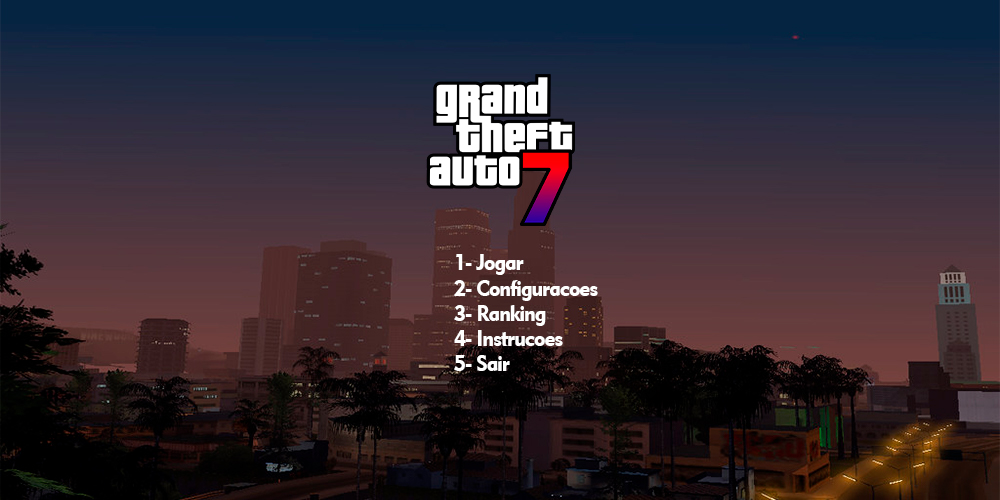
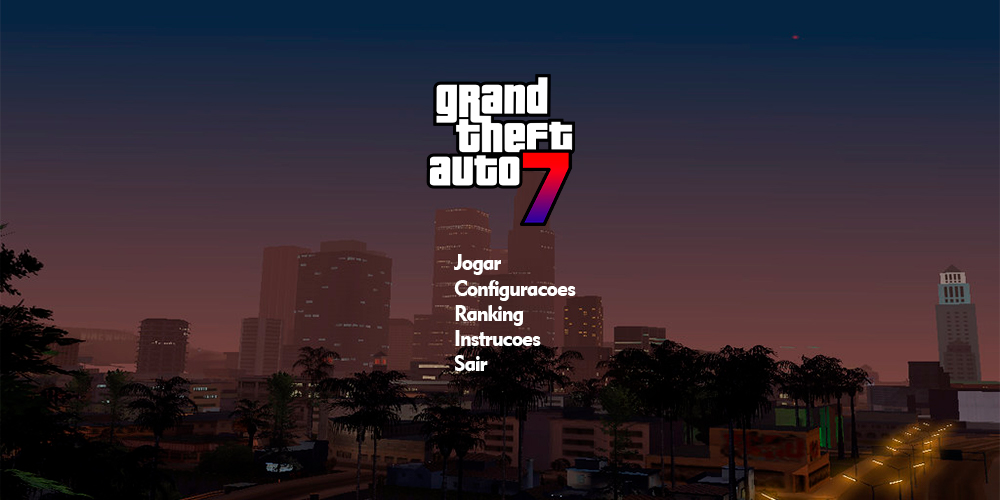
implementação do novo menu principal do game

Changed region(s): [[0.434, 0.51, 0.62, 0.75]]

diff --git a/Codes/menu.py b/Codes/menu.py
@@ -12,79 +12,21 @@ def escrever(string, tela, fonte, cor, x, y, tamanho):
     tela.blit(texto, (x, y))
     pygame.display.flip()
 
-def menu(tela, tam, largura, altura, fonte):
-    """"
-    Função que apresenta o menu inicial na tela
-    """
-    nome_do_jogo = 'GTA VII'
-    vermelho = (255, 0, 0)
-    branco = (255, 255, 255)
-    preto = (0, 0, 0)
-    tela.fill(preto)
-    
-    escrever(nome_do_jogo, tela, fonte, vermelho, 160, 40, tam * 10)
 
-    string = "1- Jogar"
-    escrever(string, tela, fonte, branco, (largura // 2),((altura // 4) - 40), tam * 3)   
+def posicionar_seta(seletor, screen):
 
-    string = "2- Configurações(Ainda não implementado!)" 
-    escrever(string, tela, fonte, branco, (largura // 2),((altura // 4) - 20), tam * 3)  
+    seta = pygame.image.load(".\imagens-de-fundo\-seta.png")
+    match seletor:
+        case 1:
+            screen.blit(seta, (425, 255))
+        case 2:
+            screen.blit(seta, (425, 282))
+        case 3:
+            screen.blit(seta, (425, 307))
+        case 4:
+            screen.blit(seta, (425, 332))
+        case 5:
+            screen.blit(seta, (425, 357))
 
-    string = "3- Ranking(Ainda não implementado!)" 
-    escrever(string, tela, fonte, branco, (largura // 2),((altura // 4)), tam * 3) 
 
-    string = "4- Instruções" 
-    escrever(string, tela, fonte, branco, (largura // 2),((altura // 4) + 20), tam * 3)
 
-    string = "5- Sair" 
-    escrever(string, tela, fonte, branco, (largura // 2),((altura // 4) + 40), tam * 3)  
-    
-    pygame.display.flip()
-
-def mostrar_instrucoes(h, l, corI, corII, tam, fonte): 
-    """
-    Função que apresenta a tela de instruções.
-    """   
-    screen = pygame.display.set_mode((l, h))
-    screen.fill(corI)
-
-    string = 'Para se movimentar para cima ou para baixo' 
-    escrever(string, screen, fonte, corII, (h // 8), (l // 8)+20, tam * 3)
-    
-    string = 'e desviar dos inimigos, utilize as setas;'
-    escrever(string, screen, fonte, corII, (h // 8), (l // 8)+40, tam * 3)
-
-    string = 'Para atirar em seus inimigos e não ser'
-    escrever(string, screen, fonte, corII, (h // 8), (l // 8)+60, tam * 3)
-
-    string = 'atacado, aperte espaço;'
-    escrever(string, screen, fonte, corII, (h // 8), (l // 8)+80, tam * 3)
-
-    string = 'Lembre-se que atirar ou se movimentar custam'
-    escrever(string, screen, fonte, corII, (h // 8), (l // 8)+100, tam * 3)
-
-    string = 'respectivamente 3 e 2 pontos de energia;'
-    escrever(string, screen, fonte, corII, (h // 8), (l // 8)+120, tam * 3)
-
-    string = 'Matar um inimigo aumenta sua pontuação em 50 pontos;'
-    escrever(string, screen, fonte, corII, (h // 8), (l // 8)+140, tam * 3)
-
-    string = 'Sempre colete pontos de energia, pois'
-    escrever(string, screen, fonte, corII, (h // 8), (l // 8)+160, tam * 3)
-
-    string = 'ela pode acabar uma hora;'
-    escrever(string, screen, fonte, corII, (h // 8), (l // 8)+180, tam * 3)
-
-    string = 'Faça o máximo de pontos que conseguir e divirta-se!'
-    escrever(string, screen, fonte, corII, (h // 8), (l // 8)+200, tam * 3)
-
-    string = 'Caso queira pausar uma partida, aperte P. Já para sair,'
-    escrever(string, screen, fonte, corII, (h // 8), (l // 8)+220, tam * 3)
-
-    string = 'aperte Enter'
-    escrever(string, screen, fonte, corII, (h // 8), (l // 8)+240, tam * 3)
-
-    string = 'Assim que tiver lido tudo, aperte enter para retornar ao menu.'
-    escrever(string, screen, fonte, corII, (h // 8), (l // 8)+260, tam * 3)
-    
-    pygame.display.flip()

diff --git a/Codes/main.py b/Codes/main.py
@@ -19,8 +19,8 @@ game_overII = False
 instrucoes = False
 paused = False
 
-tam_jogo = 25
-largura_jogo = 135
+tam_jogo = 40
+largura_jogo = 50
 altura_jogo = 10
 tam_menu = 5 # tamanho da tela
 largura_menu = 200 * tam_menu
@@ -92,6 +92,8 @@ while running:
             if event.type == pygame.KEYDOWN:
                 inicio, menu_inicial = False, True # o jogo nao esta mais no inicio
                 screen.blit(menu_inicial_img, (0,0)) # função que apresentará o menu inicial do game
+                seletor = 1
+                posicionar_seta(seletor, screen)
                 pygame.display.flip()
 
     if menu_inicial: # quando está no menu inicial
@@ -99,16 +101,35 @@ while running:
             if event.type == pygame.QUIT: # pygame.QUIT event means the user clicked X to close your window
                 running = False    
             if event.type == pygame.KEYDOWN:
-                if event.key == pygame.K_5: # 5 pra sair
-                    running = False
+                if event.key == pygame.K_DOWN:
+                    if seletor < 5:
+                        seletor += 1
+                        screen.blit(menu_inicial_img, (0,0)) # função que apresentará o menu inicial do game
+                        posicionar_seta(seletor, screen)
+                        pygame.display.flip()
 
-                elif event.key == pygame.K_1: # 1 pra jogar
-                    playing, menu_inicial = True, False
-                    tela_jogo = pygame.display.set_mode((largura_jogo * tam_jogo, altura_jogo * tam_jogo))
+                elif event.key == pygame.K_UP: 
+                    if seletor > 1:
+                        seletor -= 1
+                        screen.blit(menu_inicial_img, (0,0)) # função que apresentará o menu inicial do game
+                        posicionar_seta(seletor, screen)
+                        pygame.display.flip()
 
-                elif event.key == pygame.K_4:
-                    instrucoes, menu_inicial = True, False
-                    mostrar_instrucoes(altura_menu, largura_menu, preto, branco, tam_menu, fonte)
+                elif event.key == 13:
+                    match seletor:
+                        case 1:
+                            playing, menu_inicial = True, False
+                            tela_jogo = pygame.display.set_mode((largura_jogo * tam_jogo, altura_jogo * tam_jogo))
+                            pygame.display.flip()
+                        case 2:
+                            pass
+                        case 3:
+                            pass
+                        case 4:
+                            instrucoes, menu_inicial = True, False
+                            mostrar_instrucoes(altura_menu, largura_menu, preto, branco, tam_menu, fonte)
+                        case 5:
+                            running = False
 
     if instrucoes:
         for event in pygame.event.get():
